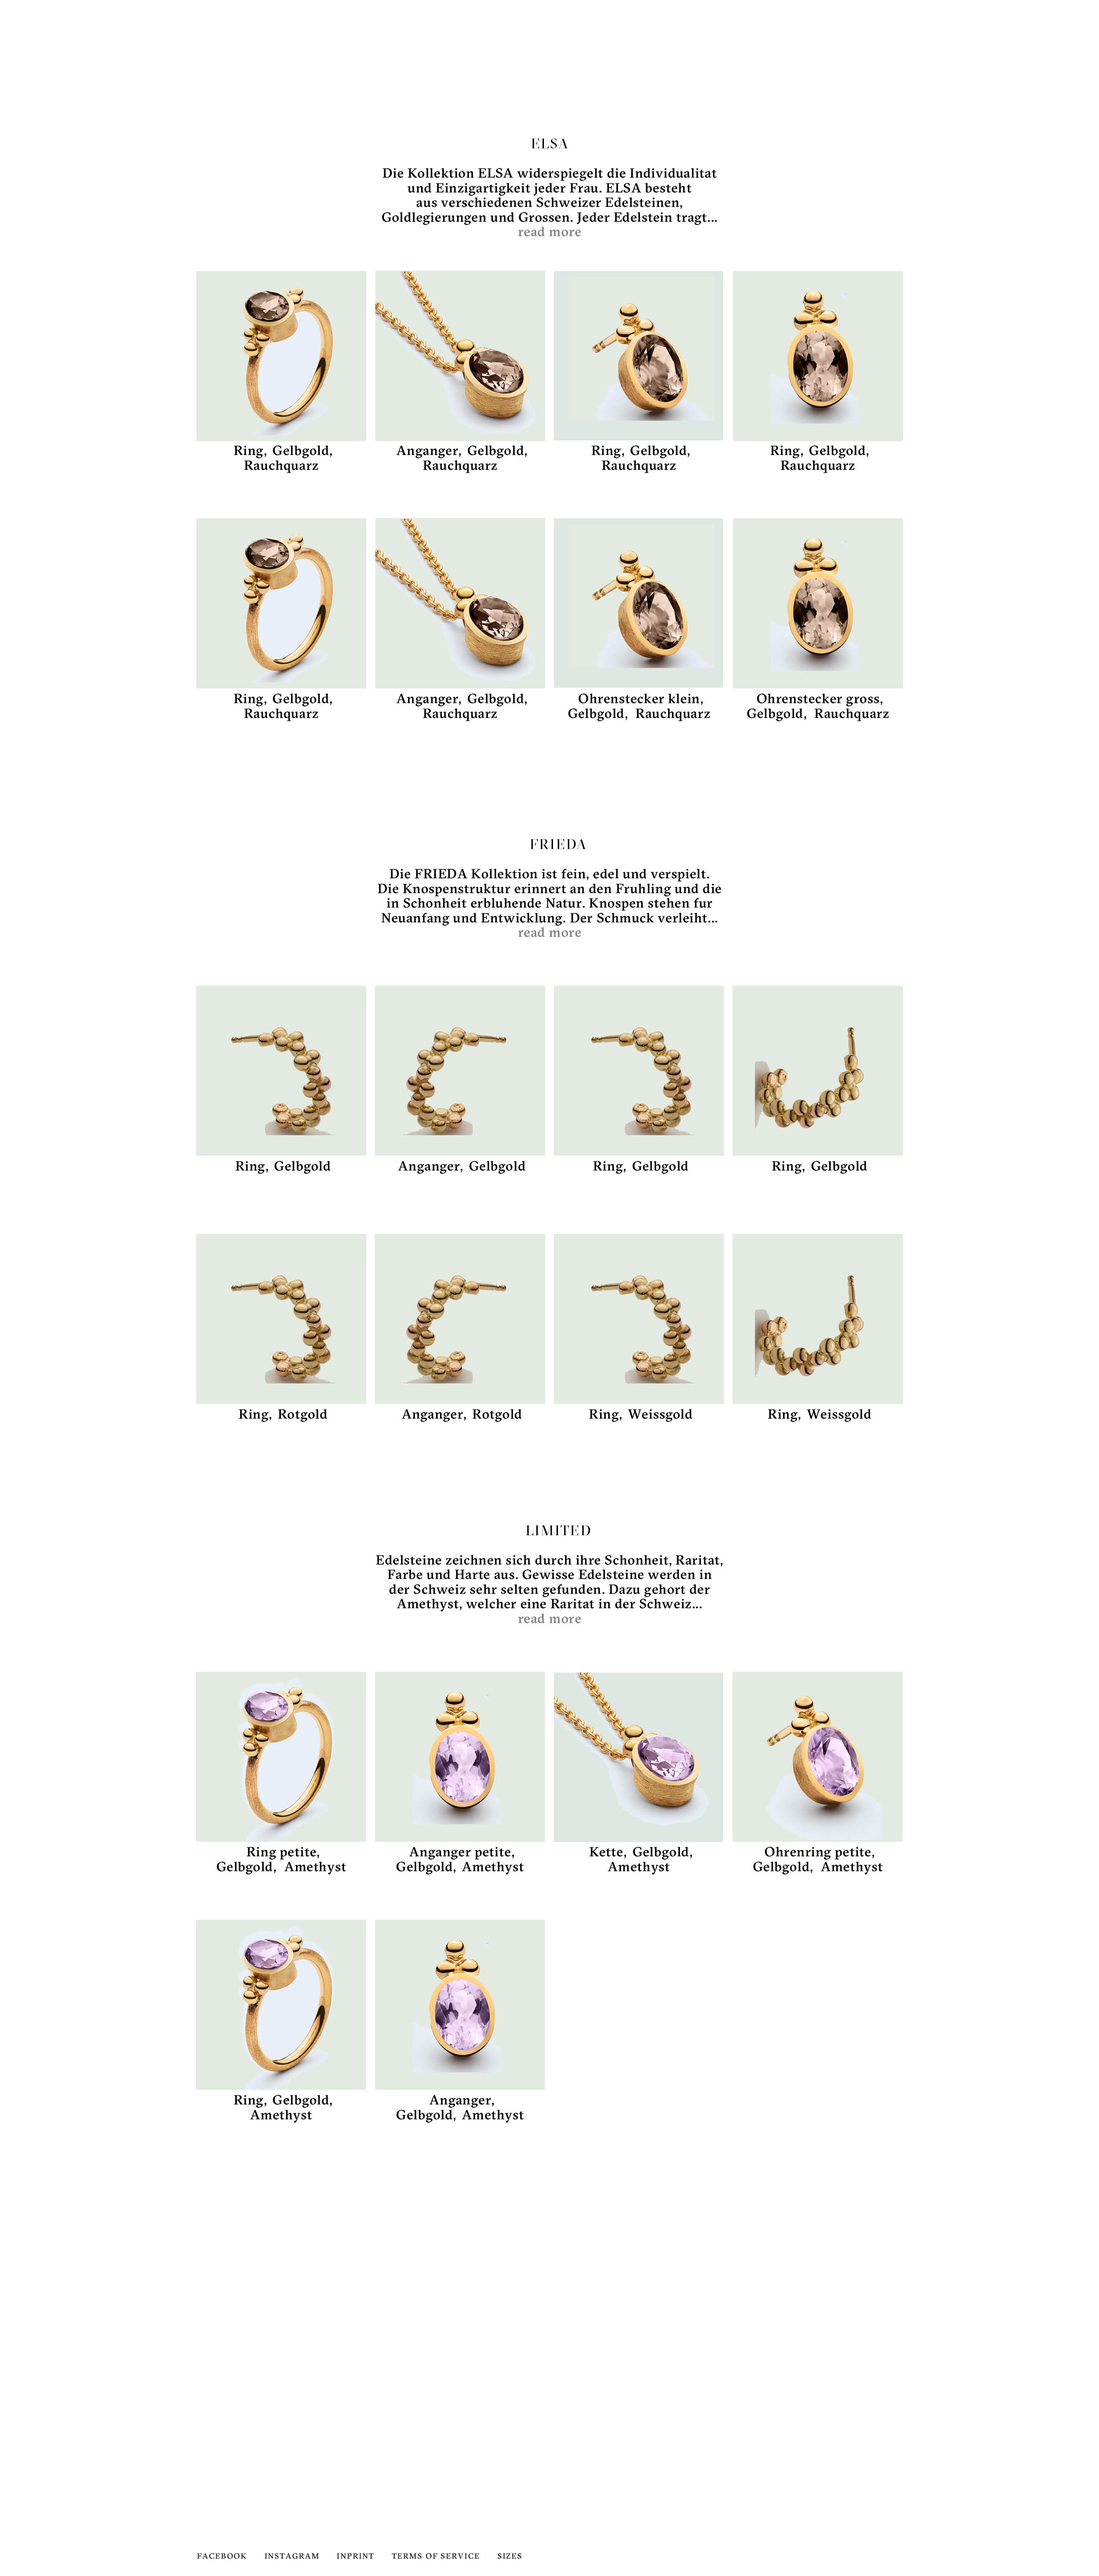
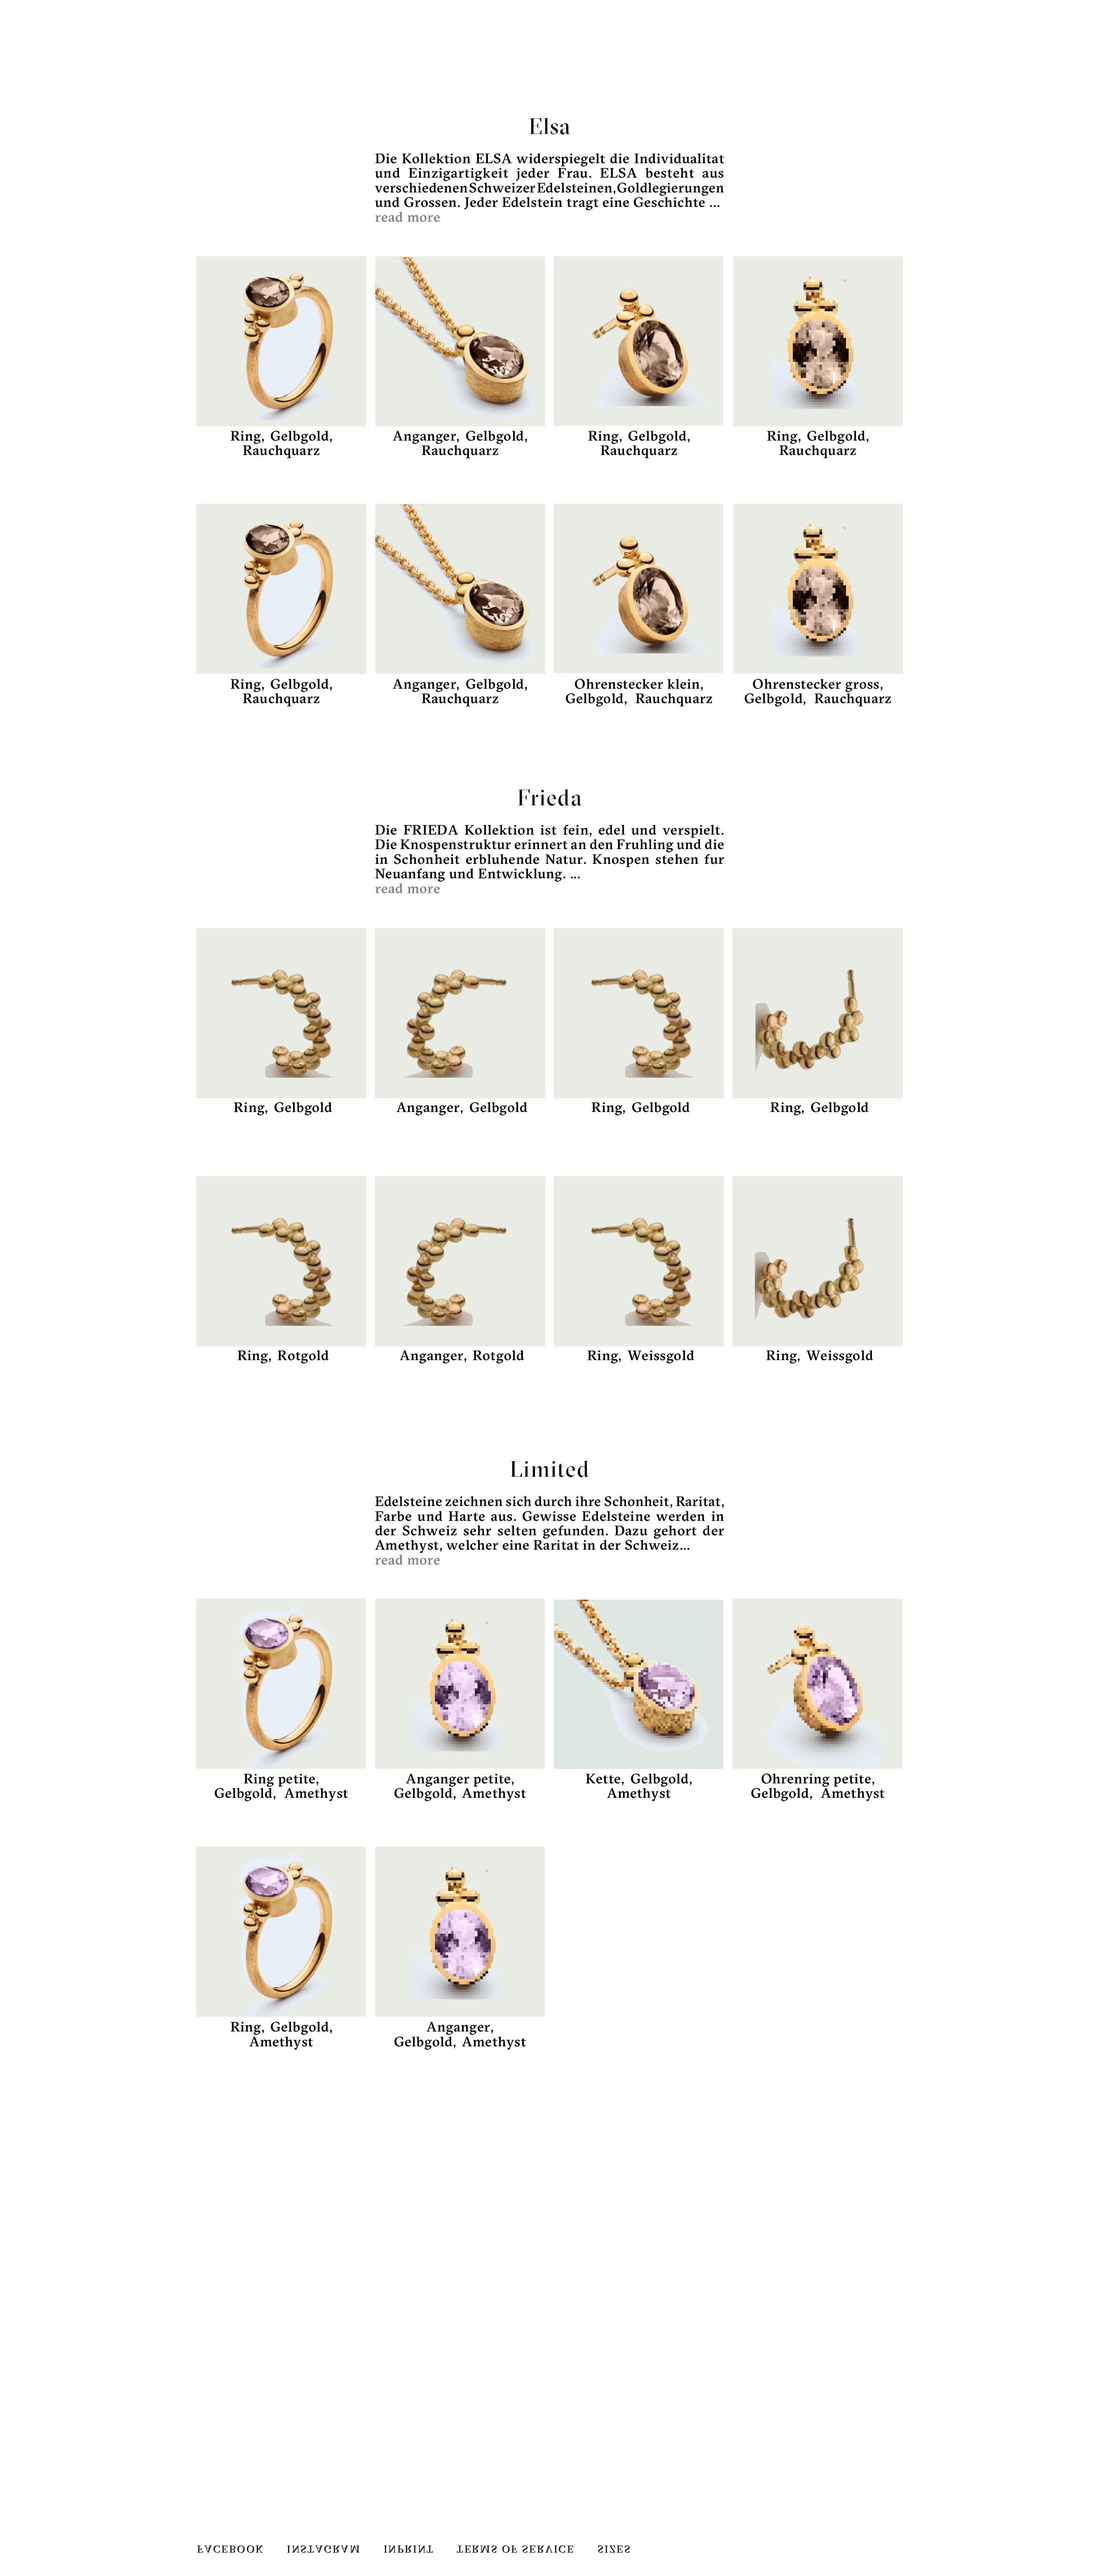
prototype 180222

Changed region(s): [[0.1556, 0.312, 0.8403, 0.8424], [0.1867, 0.0624, 0.8091, 0.2808]]

diff --git a/src/layouts/index.scss b/src/layouts/index.scss
@@ -2,16 +2,16 @@ $color--hover: #808080;
 
 %large-font {
   color: black;
-  text-transform: uppercase;
   text-decoration: none;
   font-weight: normal;
-  font-size: 2.35rem;
-  letter-spacing: 1rem;
+  font-size: 2.1rem;
+  letter-spacing: 0.07rem;
+  line-height: 0.95;
 }
 
 %list-style {
   list-style: none;
-  padding-left: 2rem;
+  padding-left: 1.5rem;
 }
 
 html {
@@ -28,11 +28,13 @@ body {
 
 h1 {
   @extend %large-font;
-  // font-size: 2rem;
+  font-size: 2.5rem;
+  letter-spacing: 0.9rem;
+  text-transform: uppercase;
   position: fixed;
   left: 50%;
   transform: translate(-50%);
-
+  
   a {
     color: #000;
     text-decoration: none;
@@ -41,14 +43,14 @@ h1 {
 
 nav, %nav {
   position: fixed;
+  text-transform: capitalize;
+  padding-top: 0.4vw;
+  
   ul {
     @extend %list-style;
     li {
       a {
         @extend %large-font;
-        font-size: 1.2rem;
-        line-height: 1;
-        letter-spacing: 0.1rem;
         &:hover {
           color: $color--hover;
         }
@@ -62,7 +64,6 @@ footer {
   position: fixed;
   bottom: 0;
   left: 0;
-  font-size: 1.2rem;
   line-height: 1;
   letter-spacing: 0.1rem;
   ul { @extend %list-style }

diff --git a/src/pages/collection/index.js b/src/pages/collection/index.js
@@ -6,25 +6,25 @@ import image from '../../images/collection--overview.jpg'
 const hitAreaList = [
   {
     id: 1,
-    pos: [17.8, 23.5, 15.4, 20.3],
-    url: "/product/chain",
+    pos: [17.8, 23.3, 15.4, 20.3],
+    url: "/product/earring",
     fix: false
   },
   {
     id: 2,
-    pos: [34.2, 23.5, 15.4, 20.3],
-    url: "/product/chain",
+    pos: [34.2, 23.3, 15.4, 20.3],
+    url: "/product/earring",
     fix: false
   },
   {
     id: 3,
-    pos: [50.3, 23.5, 15.4, 20.3],
+    pos: [50.3, 23.3, 15.4, 20.3],
     url: "/product/earring",
     fix: false
   },
   {
     id: 4,
-    pos: [34.2, 20.4, 31.5, 3.3],
+    pos: [34.2, 19.3, 31.5, 3.3],
     url: "/collection/read-more",
     fix: false
   }

diff --git a/src/components/Nav/index.js b/src/components/Nav/index.js
@@ -11,7 +11,7 @@ const Nav = () => (
         <Link to="/collection">collections</Link>
         <ul>
           <li><Link to="/collection">All Products</Link></li>
-          <li><Link to="/collection/frieda">Frieda</Link></li>
+          <li><Link to="/collection/elsa">Frieda</Link></li>
           <li><Link to="/collection/elsa">Elsa</Link></li>
           <li><Link to="/collection/limited">Limited</Link></li>
           <li><Link to="/collection/limited">Special</Link></li>

diff --git a/src/pages/product/earring/index.js b/src/pages/product/earring/index.js
@@ -5,13 +5,13 @@ import image from '../../../images/product--earring.jpg'
 const hitAreaList = [
   {
     id: 1,
-    pos: [17.8, 11.7, 32.2, 32],
+    pos: [17.8, 10.8, 32.2, 32],
     url: "/product/earring/closeup-a",
     fix: false
   },
   {
     id: 2,
-    pos: [50, 11.7, 32, 32],
+    pos: [50, 10.8, 32, 32],
     url: "/product/earring/closeup-b",
     fix: false
   }

diff --git a/src/components/Page/index.js b/src/components/Page/index.js
@@ -21,7 +21,7 @@ export default ({ image, hitAreaList, noHeader, noNav, noFooter, navCompact }) =
   {!noFooter && <HitArea
       key={0} 
       id={0} 
-      pos={[34.2, 1.1, 10, 1.8]} 
+      pos={[40.8, 1.9, 11.5, 1.5]} 
       url="/about/TOC"
       bottom
     />}

diff --git a/src/pages/about/gemstones.js b/src/pages/about/gemstones.js
@@ -1,6 +1,6 @@
 import React from 'react'
 import Page from '../../components/Page'
-import image from '../../images/about--gemstones-a.jpg'
+import image from '../../images/about--gemstones.jpg'
 
 const hitAreaList = [
   {

diff --git a/src/components/Footer/index.js b/src/components/Footer/index.js
@@ -4,8 +4,8 @@ import Link from 'gatsby-link'
 const Footer = () => (
   <footer>
     <ul>
-      <li>CART (0)</li>
-      <li>DE / EN</li>
+      <li>Cart (0)</li>
+      <li>de/en</li>
     </ul>
   </footer>
 )
